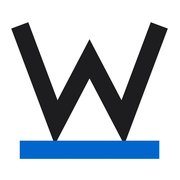
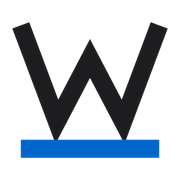
Add files via upload

diff --git a/index.html b/index.html
@@ -10,6 +10,9 @@
 <meta name="description" content="원 OPC는 퍼시스(FURSYS) 공식 대리점입니다. 서울·경기·인천 수도권 전역 사무가구 납품, 임원실·회의실·사무공간 구축, 레이아웃 제안부터 설치·AS까지 원스톱으로 제공합니다. 견적 문의 02-6072-0531.">
 <meta name="keywords" content="퍼시스, 퍼시스대리점, 퍼시스공식대리점, 사무가구, 오피스가구, 임원실가구, 회의테이블, 사무실가구, 수도권사무가구, 사무환경컨설팅, 원OPC">
 <link rel="canonical" href="https://www.fursys-wonopc.com/">
+<link rel="icon" href="favicon.ico?v=2" sizes="any">
+<link rel="icon" type="image/png" href="favicon.png?v=2">
+<link rel="apple-touch-icon" href="apple-touch-icon.png?v=2">
 <!-- Open Graph (카카오톡·페이스북 공유 미리보기) -->
 <meta property="og:type" content="website">
 <meta property="og:title" content="원 OPC — 퍼시스 공식 대리점">
